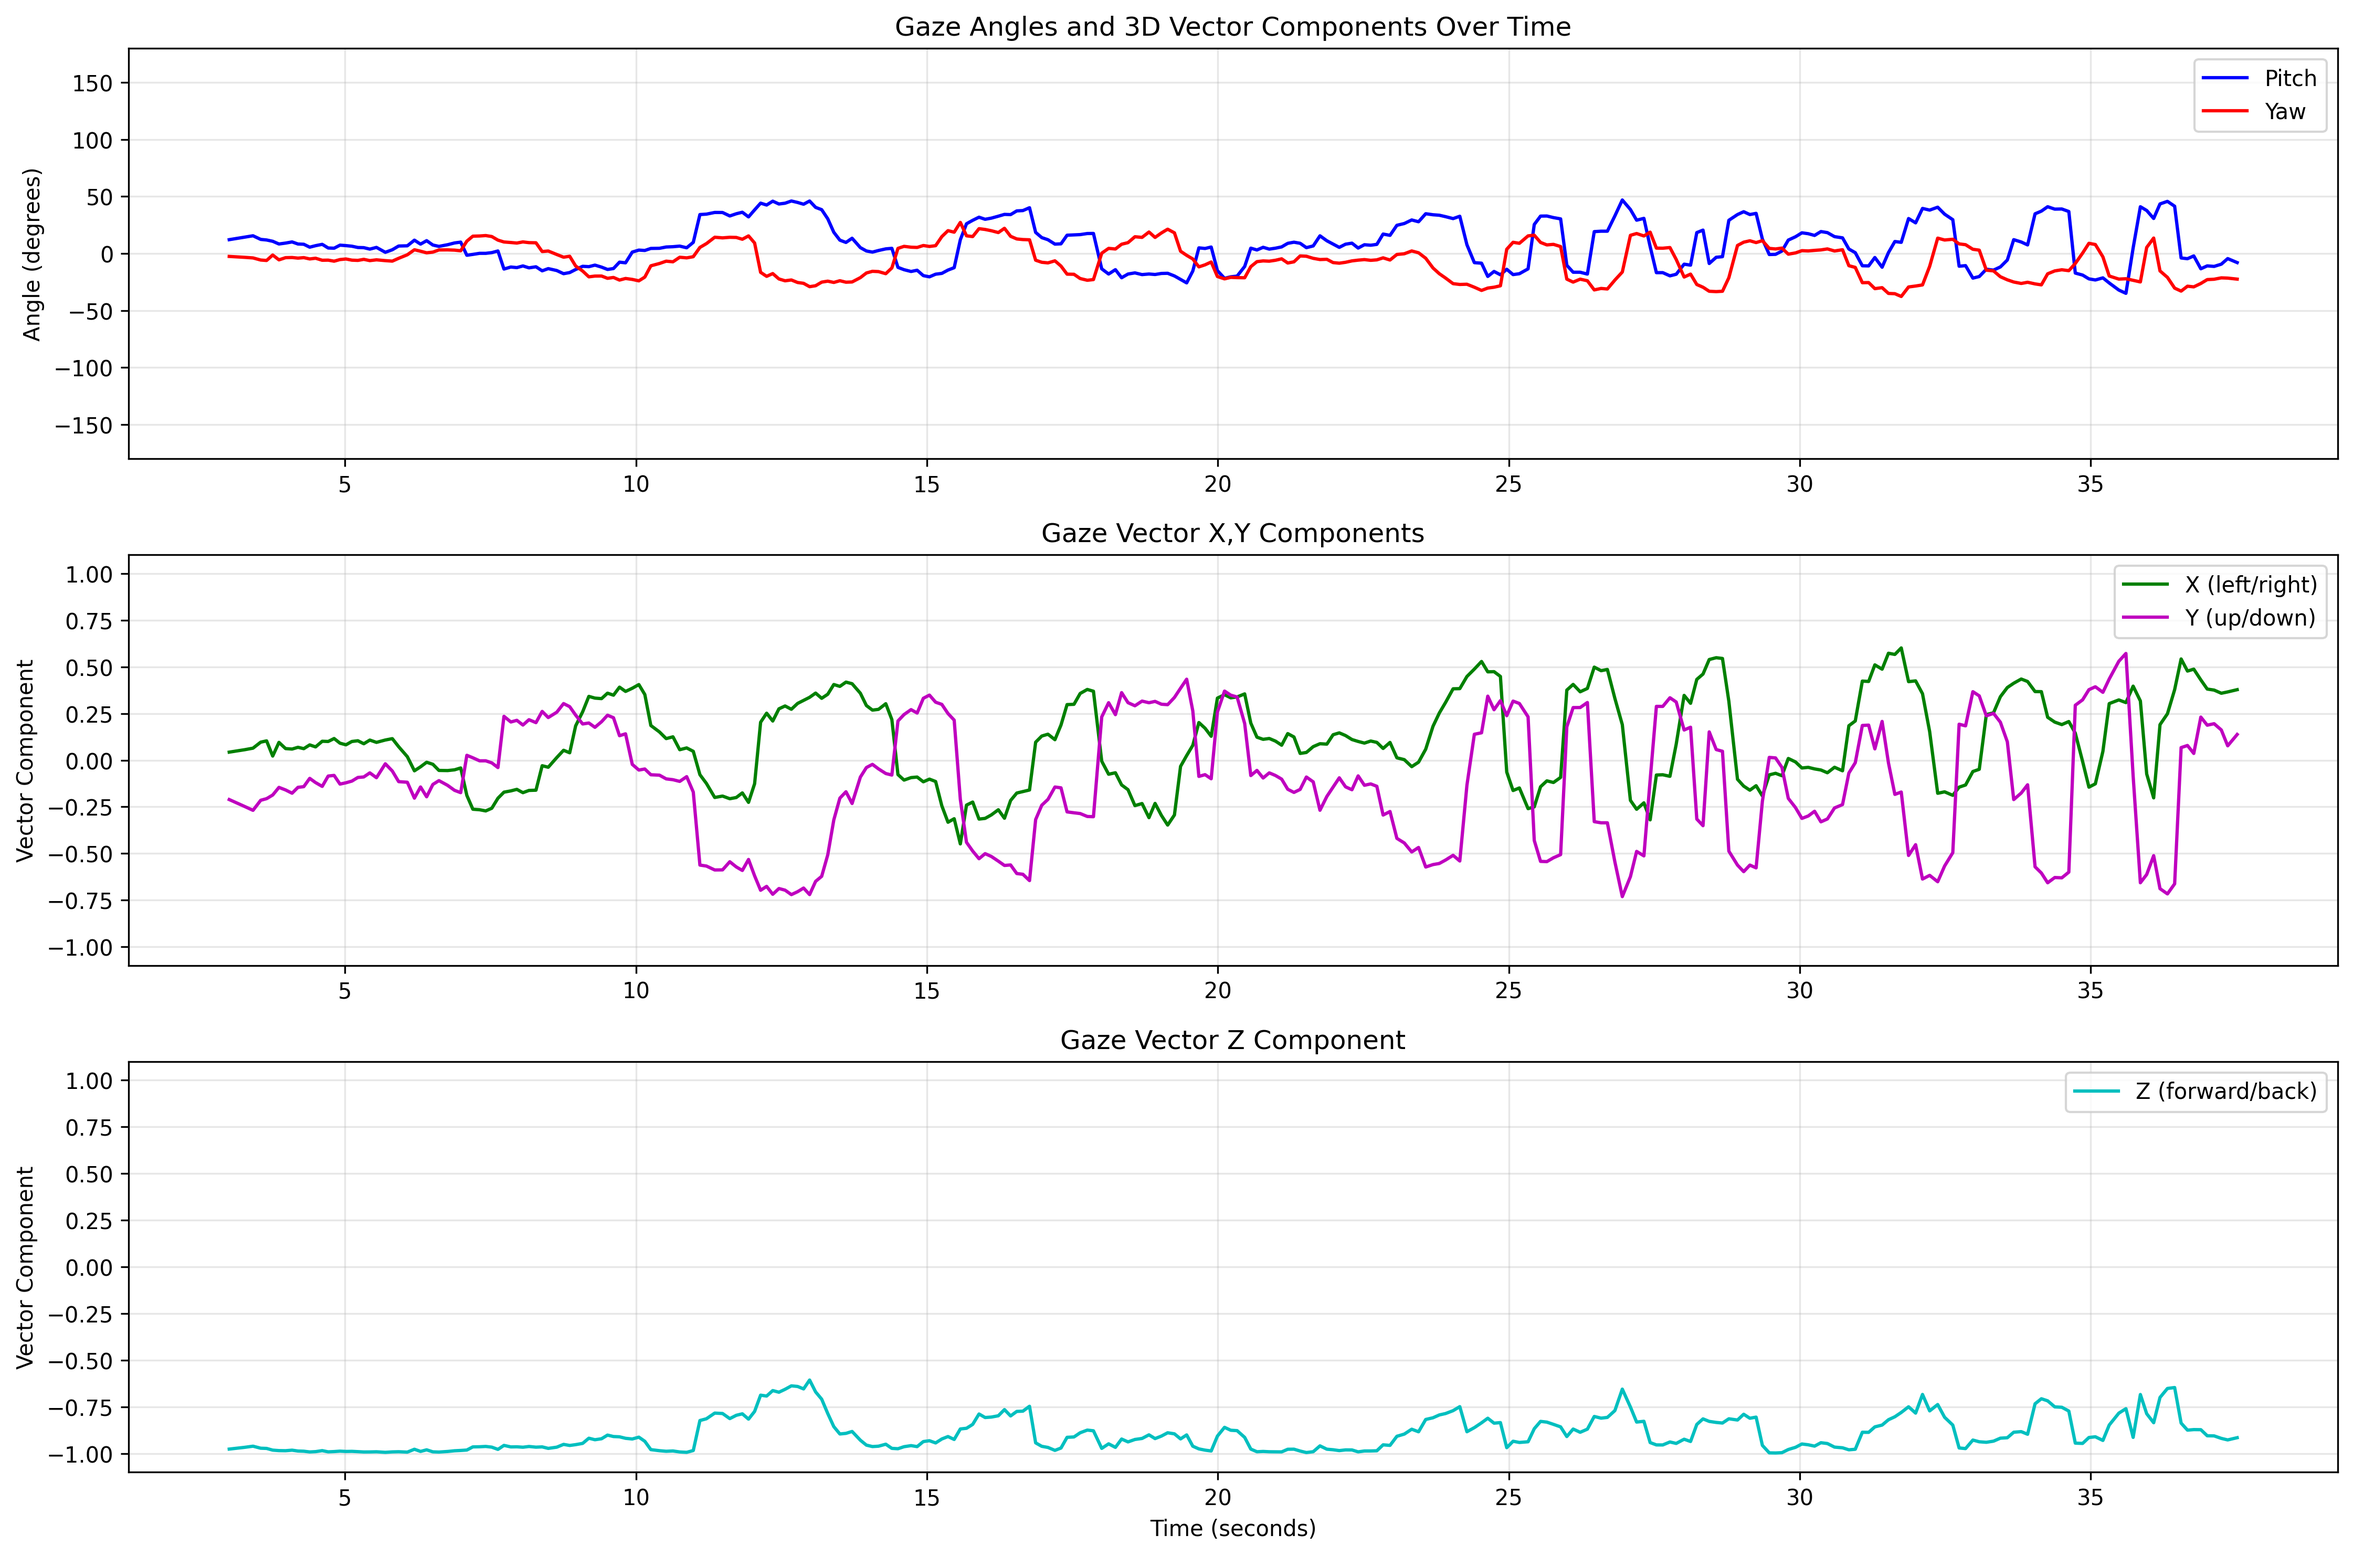
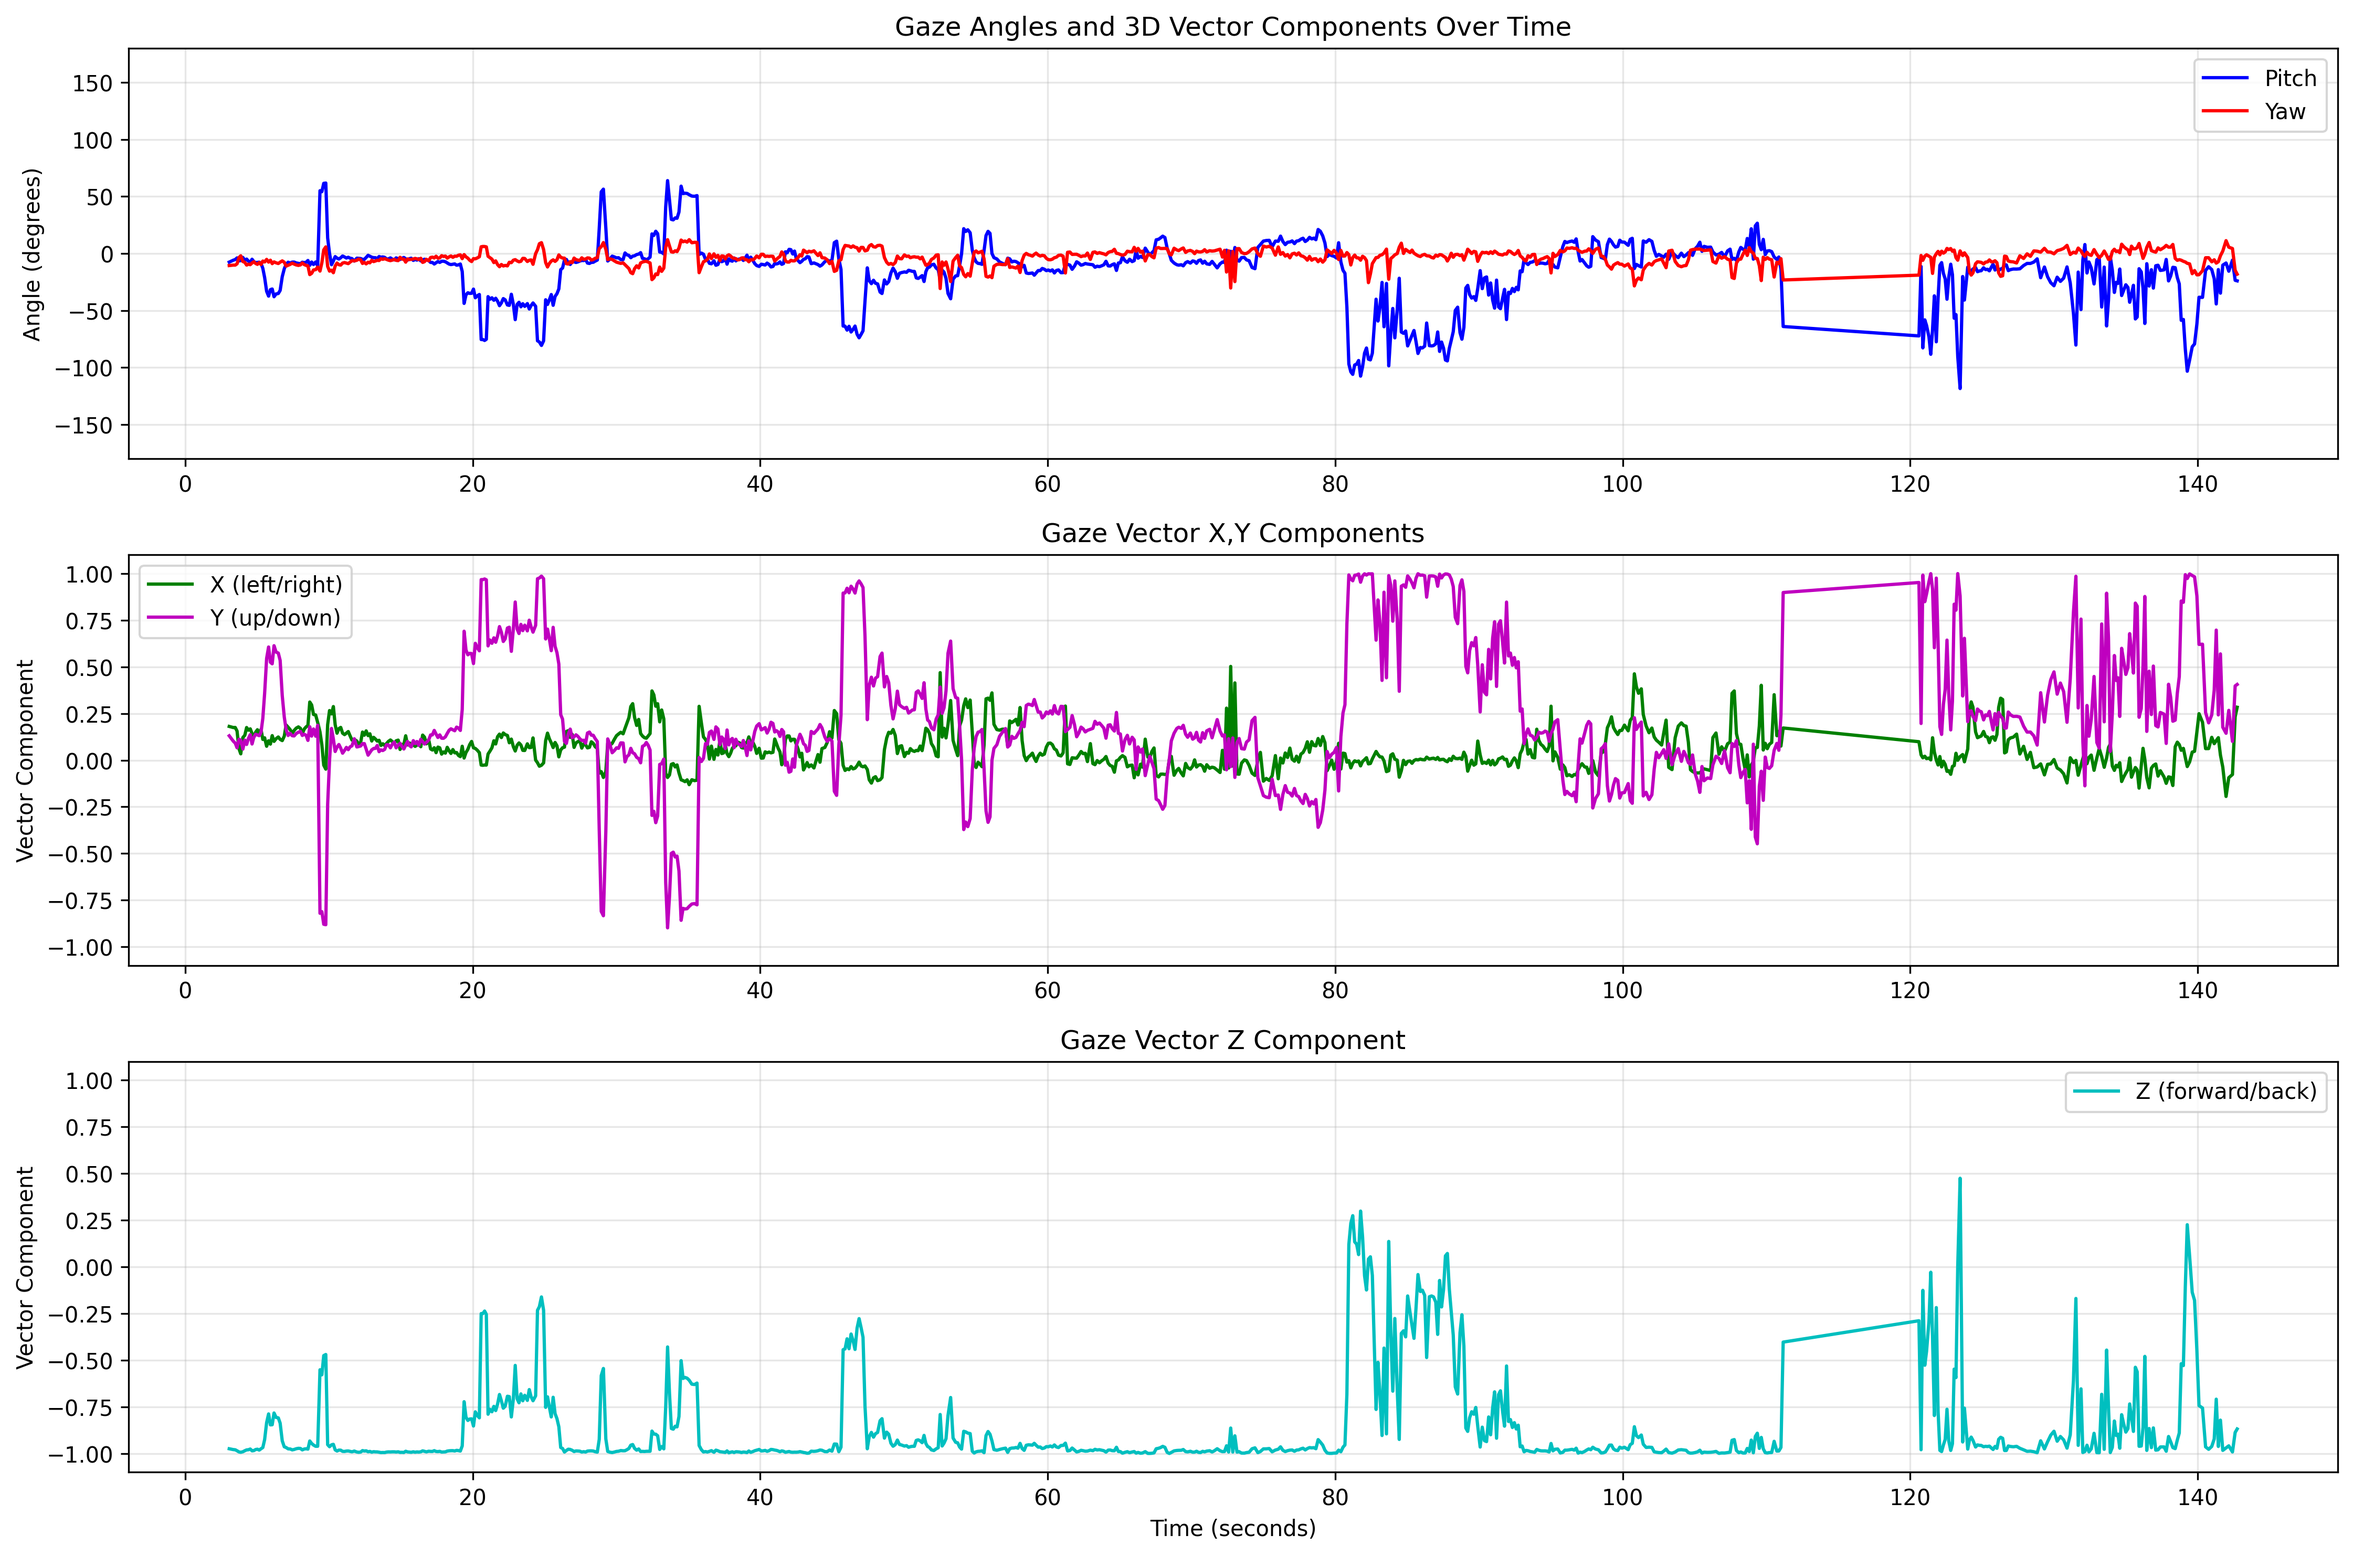
chore: updated documentation and example images

diff --git a/README.md b/README.md
@@ -64,14 +64,19 @@ python detect.py --snapshot models/Gaze_Tracker.pkl --cam 0 --output-json --webs
 - Middle panel: X/Y vector components (horizontal/vertical gaze direction)
 - Bottom panel: Z component (depth/forward-back direction)
 
-![Gaze Browswe Client](images/gaze_browswe_client.png)
-- Broswer client with websockt and json streaming for real-time output
-- gaze direction label, pitch/yaw angles, 3D gaze vector, and temporal smoothing. The client displays live gaze events, confidence scores, and overlay graphics for debugging and visualization.
+![Gaze Browser Client](images/gaze_browswe_client.png)
+*Browser client with WebSocket and JSON streaming for real-time output - gaze direction label, pitch/yaw angles, 3D gaze vector, and temporal smoothing. The client displays live gaze events, confidence scores, and overlay graphics for debugging and visualization.*
+
+## Face Pose Detection
+![Face Pose Detection](images/facepose.png)
+![Example Face Pose Detection](images/output_facepose_detection.jpg)
+*Integrated MTCNN-based face pose detection showing Left Profile classification with landmark triangulation and angle measurements (Left: 107°, Right: 37°). The system combines gaze estimation with head orientation analysis for comprehensive face tracking.*
 
 ## Key Features
 - **CPU/GPU Support**: Automatic device detection with CPU fallback
 - **Multiple Architectures**: ResNet18/34/50/101/152 support
 - **Face Detection**: Integrated RetinaFace detector
+- **Face Pose Detection**: MTCNN-based head orientation (Frontal/Left/Right Profile)
 - **Cross-Platform**: Works on Ubuntu, macOS, Windows
 - **Dual Output Modes**: Debug overlay + programmatic streams
 - **Real-time Streaming**: NDJSON console output + WebSocket server
@@ -85,4 +90,6 @@ python detect.py --snapshot models/Gaze_Tracker.pkl --cam 0 --output-json --webs
 ## Performance
 - **Input Resolution**: 448×448 pixels
 - **Angular Range**: ±42° (MPII), ±180° (Gaze360)
-- **Inference**: Real-time capable on modern CPUs
+- **Face Pose**: Frontal, Left Profile, Right Profile classification
+- **Inference**: Real-time capable on modern CPUs (~15-30 FPS)
+- **Latency**: <100ms end-to-end processing

diff --git a/RESEARCH.md b/RESEARCH.md
@@ -63,3 +63,5 @@ Input (448×448×3) → ResNet Backbone → Global Average Pool → FC Layers
 - [Gaze360 Dataset](https://gaze360.csail.mit.edu/)
 - [Gaze360  Dataset (Huggingface)](https://huggingface.co/datasets/Morning5/Gaze360)
 - [Face Detection](https://github.com/elliottzheng/face-detection)
+- [Face Orientation](https://nawafalageel.medium.com/detect-face-poses-f4910dea4a6a)
+- [Face Orientation MTCNN](https://github.com/ipazc/mtcnn)
